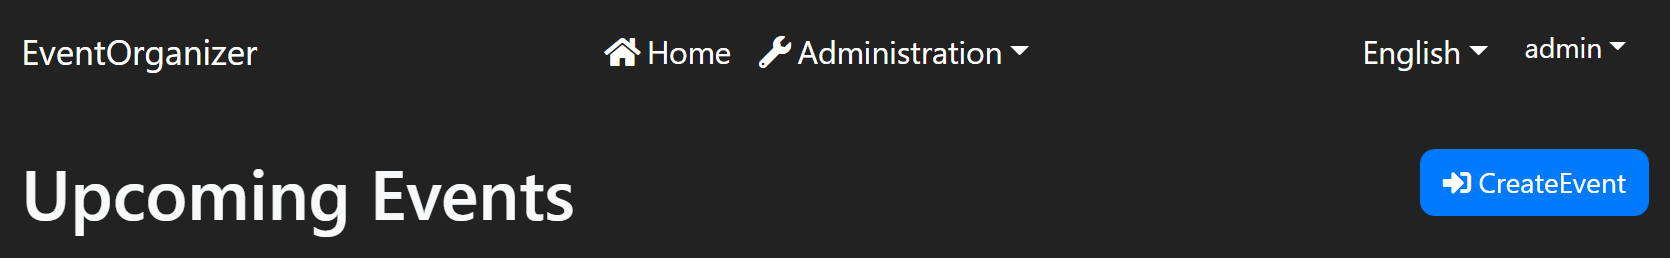
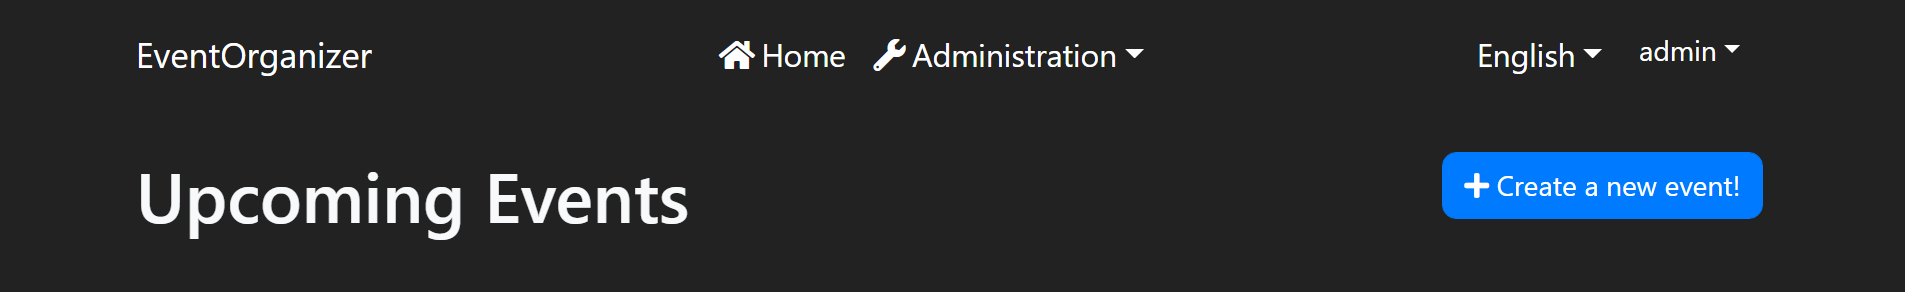
Add "event list" to the tutorial.

diff --git a/EventOrganizer/docs/Notes.md b/EventOrganizer/docs/Notes.md
@@ -2,9 +2,10 @@
 
 This document is a reference on giving the ABP & Blazor Workshop. It contains the steps to build the application.
 
-## The Final Application
+## TODO
 
-TODO: Add final images at the beginning
+* Add final images at the beginning
+* Add the application logo at the end
 
 ## Requirements
 
@@ -98,7 +99,6 @@ nav#main-navbar.bg-dark {
 ````
 
 * `wwwroot/index.html`: Remove `bg-light` class from the `body` tag and add `bg-dark text-light`.
-* **TODO: Add logo**
 
 ### Domain Layer
 
@@ -181,11 +181,17 @@ public IMongoCollection<Event> Events => Collection<Event>();
 </Row>
 ````
 
-The Result:
+* Open `Localization/EventOrganizer/en.json` in the `EventOrganizer.Domain.Shared` project and add the following entry:
+
+````json
+"CreateEvent": "Create a new event!"
+````
+
+The Result (run the `EventOrganizer.Blazor` application to see):
 
 ![index-title](images/index-title.png)
 
-### Implement Event Creation
+### Event Creation
 
 * Create the Initial `IEventAppService` with the `CreateAsync` method:
 
@@ -349,3 +355,176 @@ The final UI is (run the `EventOrganizer.Blazor` application and click to the "C
 
 ![event-create-ui](images/event-create-ui.png)
 
+### Upcoming Events (Home Page)
+
+* Open the `IEventAppService` and add a `GetUpcomingAsync` method to get the list of upcoming events:
+
+````csharp
+using System;
+using System.Collections.Generic;
+using System.Threading.Tasks;
+using Volo.Abp.Application.Services;
+
+namespace EventOrganizer.Events
+{
+    public interface IEventAppService : IApplicationService
+    {
+        Task<Guid> CreateAsync(EventCreationDto input);
+
+        Task<List<EventDto>> GetUpcomingAsync();
+    }
+}
+````
+
+* Add a `EventDto` class:
+
+````csharp
+using System;
+using Volo.Abp.Application.Dtos;
+
+namespace EventOrganizer.Events
+{
+    public class EventDto : EntityDto<Guid>
+    {
+        public string Title { get; set; }
+
+        public string Description { get; set; }
+
+        public bool IsFree { get; set; }
+
+        public DateTime StartTime { get; set; }
+
+        public int AttendeesCount { get; set; }
+    }
+}
+````
+
+* Implement the `GetUpcomingAsync` in the `EventAppService` class:
+
+````csharp
+using System;
+using System.Collections.Generic;
+using System.Linq;
+using System.Threading.Tasks;
+using Microsoft.AspNetCore.Authorization;
+using Volo.Abp.Domain.Repositories;
+
+namespace EventOrganizer.Events
+{
+    public class EventAppService : EventOrganizerAppService, IEventAppService
+    {
+        private readonly IRepository<Event, Guid> _eventRepository;
+
+        public EventAppService(IRepository<Event, Guid> eventRepository)
+        {
+            _eventRepository = eventRepository;
+        }
+
+        [Authorize]
+        public async Task<Guid> CreateAsync(EventCreationDto input)
+        {
+            var eventEntity = ObjectMapper.Map<EventCreationDto, Event>(input);
+            await _eventRepository.InsertAsync(eventEntity);
+            return eventEntity.Id;
+        }
+
+        public async Task<List<EventDto>> GetUpcomingAsync()
+        {
+            var events = await AsyncExecuter.ToListAsync(
+                _eventRepository
+                    .Where(x => x.StartTime > Clock.Now)
+                    .OrderBy(x => x.StartTime)
+            );
+
+            return ObjectMapper.Map<List<Event>, List<EventDto>>(events);
+        }
+    }
+}
+````
+
+* Add the following line into the `EventOrganizerApplicationAutoMapperProfile` constructor:
+
+````csharp
+CreateMap<Event, EventDto>();
+````
+
+Run the `EventOrganizer.HttpApi.Host` application to see the new `upcoming` endpoint on the Swagger UI:
+
+![swagger-event-upcoming](images/swagger-event-upcoming.png)
+
+* Change the `Pages/Index.razor.cs` content in the `EventOrganizer.Blazor` project as shown below:
+
+```csharp
+using System.Collections.Generic;
+using System.Threading.Tasks;
+using EventOrganizer.Events;
+
+namespace EventOrganizer.Blazor.Pages
+{
+    public partial class Index
+    {
+        private List<EventDto> UpcomingEvents { get; set; } = new List<EventDto>();
+
+        private readonly IEventAppService _eventAppService;
+
+        public Index(IEventAppService eventAppService)
+        {
+            _eventAppService = eventAppService;
+        }
+
+        protected override async Task OnInitializedAsync()
+        {
+            UpcomingEvents = await _eventAppService.GetUpcomingAsync();
+        }
+    }
+}
+```
+
+* Change the `Pages/Index.razor` content in the `EventOrganizer.Blazor` project as shown below:
+
+````html
+@page "/"
+@inherits EventOrganizerComponentBase
+<Row Class="mb-4">
+    <Column Class="text-left">
+        <h1>Upcoming Events</h1>
+    </Column>
+    <Column Class="text-right">
+        @if (CurrentUser.IsAuthenticated)
+        {
+            <a class="btn btn-primary" href="/create-event">
+                <i class="fa fa-plus"></i> @L["CreateEvent"]
+            </a>
+        }
+    </Column>
+</Row>
+<Row>
+    @foreach (var upcomingEvent in UpcomingEvents)
+    {
+        <Column Class="col-12 col-lg-4 col-md-6">
+            <a class="mb-5 position-relative d-block event-link" href="/events/@upcomingEvent.Id">
+                <div class="position-absolute text-right w-100 px-3 py-2" style="left: 0; top: 2px;">
+                    @if (upcomingEvent.IsFree)
+                    {
+                        <Badge Color="Color.Success" Class="mr-1">FREE</Badge>
+                    }
+                    <span class="badge badge-warning font-weight-normal">
+                        <i class="fas fa-user-friends"></i>
+                        <span class="font-weight-bold">@upcomingEvent.AttendeesCount</span>
+                    </span>
+                </div>
+                <img src="https://picsum.photos/seed/@upcomingEvent.Id/400/300" class="event-pic"/>
+                <div class="px-3 py-1">
+                    <small class="font-weight-bold text-warning my-2 d-block text-uppercase">@upcomingEvent.StartTime.ToLongDateString()</small>
+                    <p class="h4 text-light d-block mb-2">@upcomingEvent.Title</p>
+                    <p class="text-light" style="opacity: .65;">@upcomingEvent.Description.TruncateWithPostfix(150)</p>
+                </div>
+            </a>
+        </Column>
+    }
+</Row>
+````
+
+The new home page is shown below:
+
+![event-list-ui](D:\Github\abp-samples\EventOrganizer\docs\images\event-list-ui.png)
